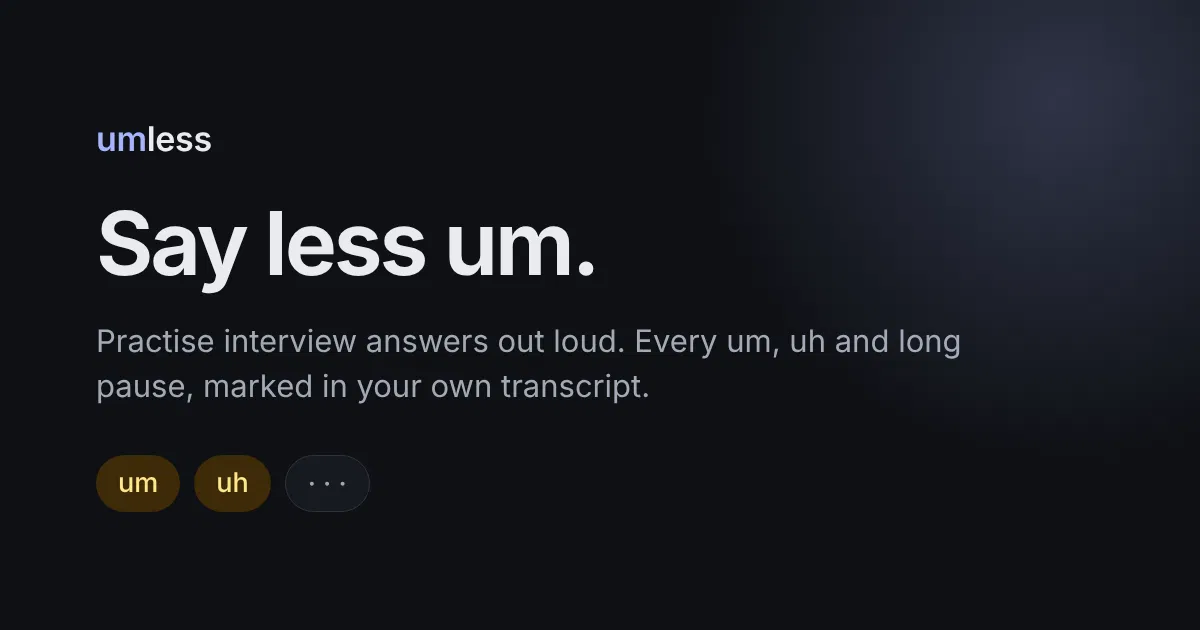
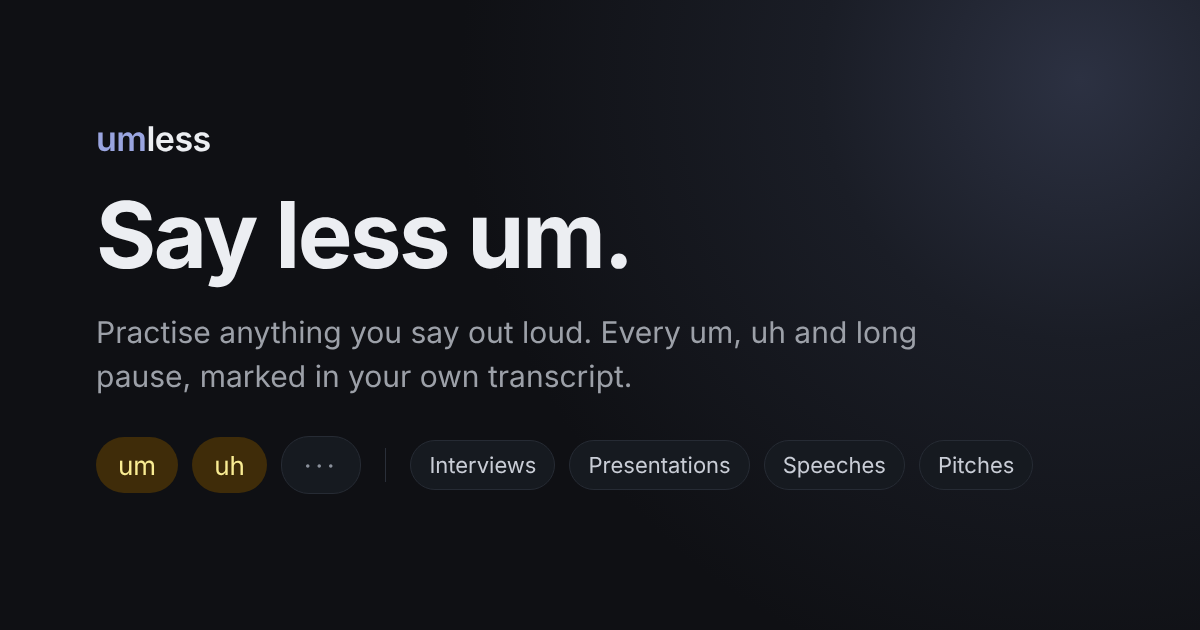
feat/update seo

diff --git a/frontend/src/content/marketing.ts b/frontend/src/content/marketing.ts
@@ -6,7 +6,7 @@ import { FREE_MINUTES, PRICING } from './business'
 
 /** The default meta description (index.html has the same text for the first paint). */
 export const SITE_DESCRIPTION =
-  'Practise interview answers out loud. umless shows every um, uh and long pause in your transcript, with your pace.'
+  'Practise speaking out loud: mock interviews, presentations, speeches and pitches. umless shows every um, uh and long pause in your transcript, with your pace.'
 
 export type FeatureItem = { icon: IconName; title: string; body: string }
 export type FaqItem = { question: string; answer: string }
@@ -17,15 +17,15 @@ export const SAMPLE_TRANSCRIPT =
 
 export const HERO = {
   badge: 'Pause dots show where you hesitate',
-  lead: 'Practise interview answers out loud. umless records you, then shows every um, uh and long pause, with your pace, so you hear what your interviewer hears.',
+  lead: 'Practise anything you have to say out loud: an interview answer, a presentation, a speech, a pitch. umless records you, then shows every um, uh and long pause, with your pace, so you hear what your audience hears.',
   note: `${FREE_MINUTES} free minutes, no card needed.`,
   mockQuestion: 'Tell me about a time you led a project.',
   mockSummary: ['1:42 total', '138 wpm', 'um ×2 · uh ×1', '2 pauses · longest 3 s'],
 }
 
 export const STEPS: FeatureItem[] = [
-  { icon: 'list', title: 'Add your questions', body: 'Type the questions you expect, or start with one of our examples.' },
-  { icon: 'mic', title: 'Answer out loud', body: "Press record and answer like it's the real thing. Up to 10 minutes." },
+  { icon: 'list', title: "Add what you'll say", body: 'An interview question, a presentation opener, a speech, a pitch. Type your own, or start with one of our examples.' },
+  { icon: 'mic', title: 'Say it out loud', body: "Press record and say it like it's the real thing. Up to 10 minutes." },
   { icon: 'highlight', title: 'See every um', body: 'Get a transcript with fillers highlighted, pauses marked and your pace.' },
 ]
 
@@ -65,6 +65,10 @@ export const WORKS_ANYWHERE: FeatureItem[] = [
 ]
 
 export const FAQ: FaqItem[] = [
+  {
+    question: 'What can I practise?',
+    answer: 'Anything you say out loud: mock interview answers, presentations, speeches, pitches, vivas and video scripts, in English. One recording can be up to 10 minutes, so practise long talks in sections.',
+  },
   { question: 'Which filler words does umless catch?', answer: 'um, uh and mhmm. "Uh-huh" and "uh-uh" mean yes and no, so they count as ordinary words.' },
   { question: 'What do the dots in my transcript mean?', answer: 'Each dot is one second of silence. A pause of three seconds shows as three dots.' },
   {

diff --git a/frontend/index.html b/frontend/index.html
@@ -5,7 +5,7 @@
     
     <meta name="viewport" content="width=device-width, initial-scale=1.0" />
     <title>umless · Say less um</title>
-    <meta name="description" content="Practise interview answers out loud. umless shows every um, uh and long pause in your transcript, with your pace." />
+    <meta name="description" content="Practise speaking out loud: mock interviews, presentations, speeches and pitches. umless shows every um, uh and long pause in your transcript, with your pace." />
     <link rel="canonical" href="https://umless.in/" />
     <!-- Link previews. Social scrapers (WhatsApp, LinkedIn, Slack, X) don't run JS, so these stay
          static and describe the product; src/app/useDocumentMeta.ts updates canonical per route. -->
@@ -13,7 +13,7 @@
     <meta property="og:site_name" content="umless" />
     <meta property="og:url" content="https://umless.in/" />
     <meta property="og:title" content="umless · Say less um" />
-    <meta property="og:description" content="Practise interview answers out loud. umless shows every um, uh and long pause in your transcript, with your pace." />
+    <meta property="og:description" content="Practise speaking out loud: mock interviews, presentations, speeches and pitches. umless shows every um, uh and long pause in your transcript, with your pace." />
     <meta property="og:image" content="https://umless.in/og.png" />
     <meta property="og:image:width" content="1200" />
     <meta property="og:image:height" content="630" />
